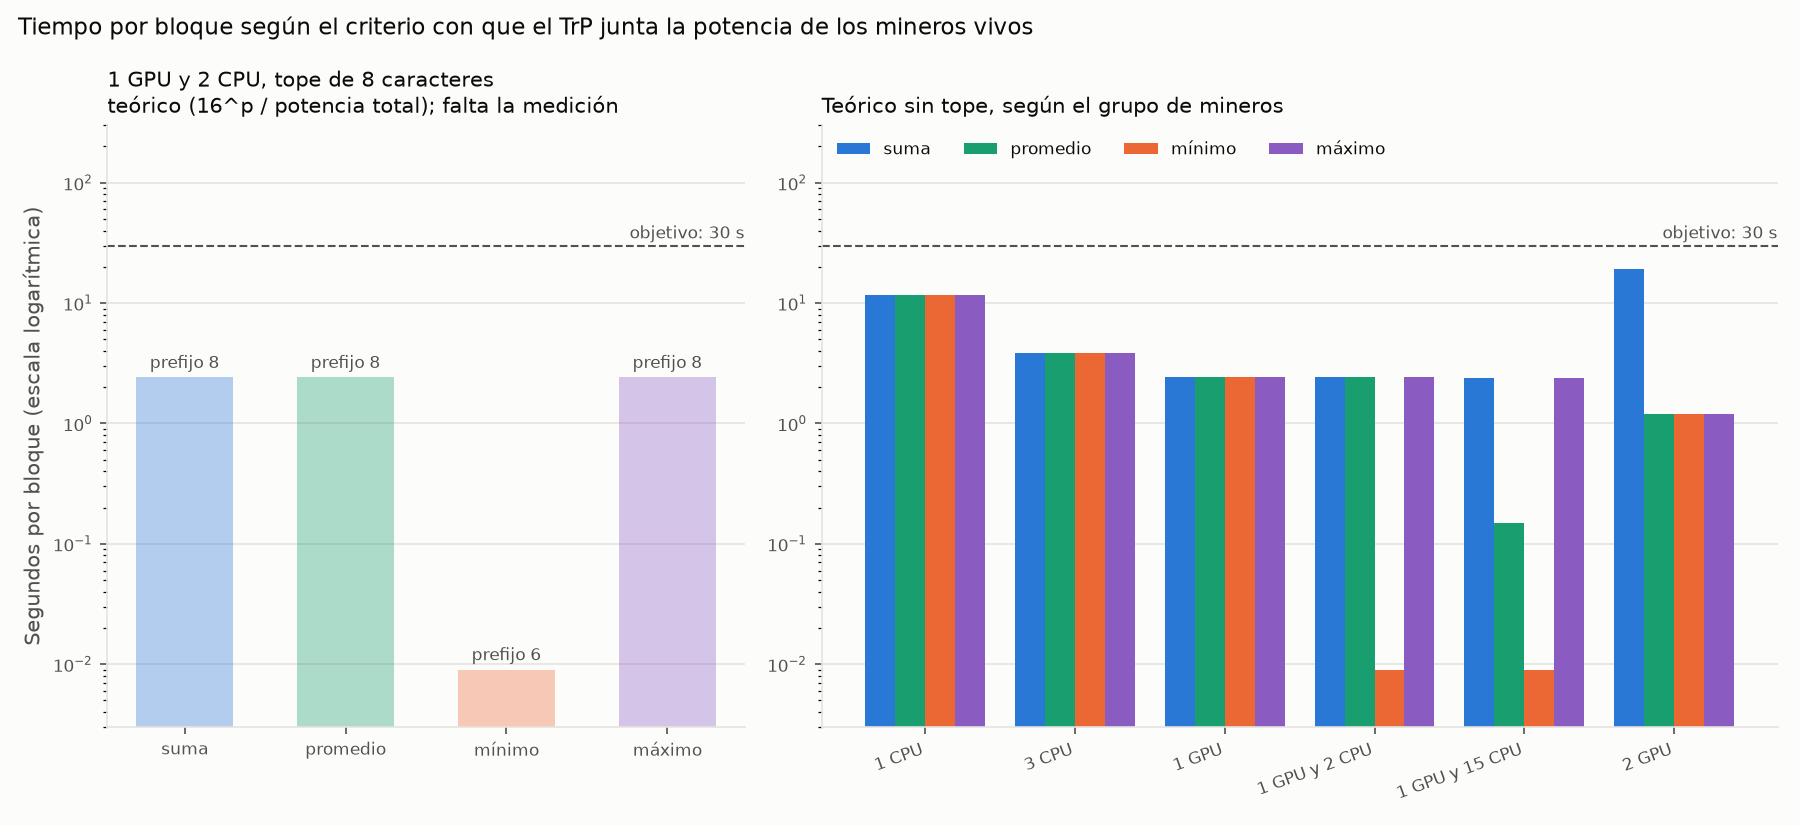
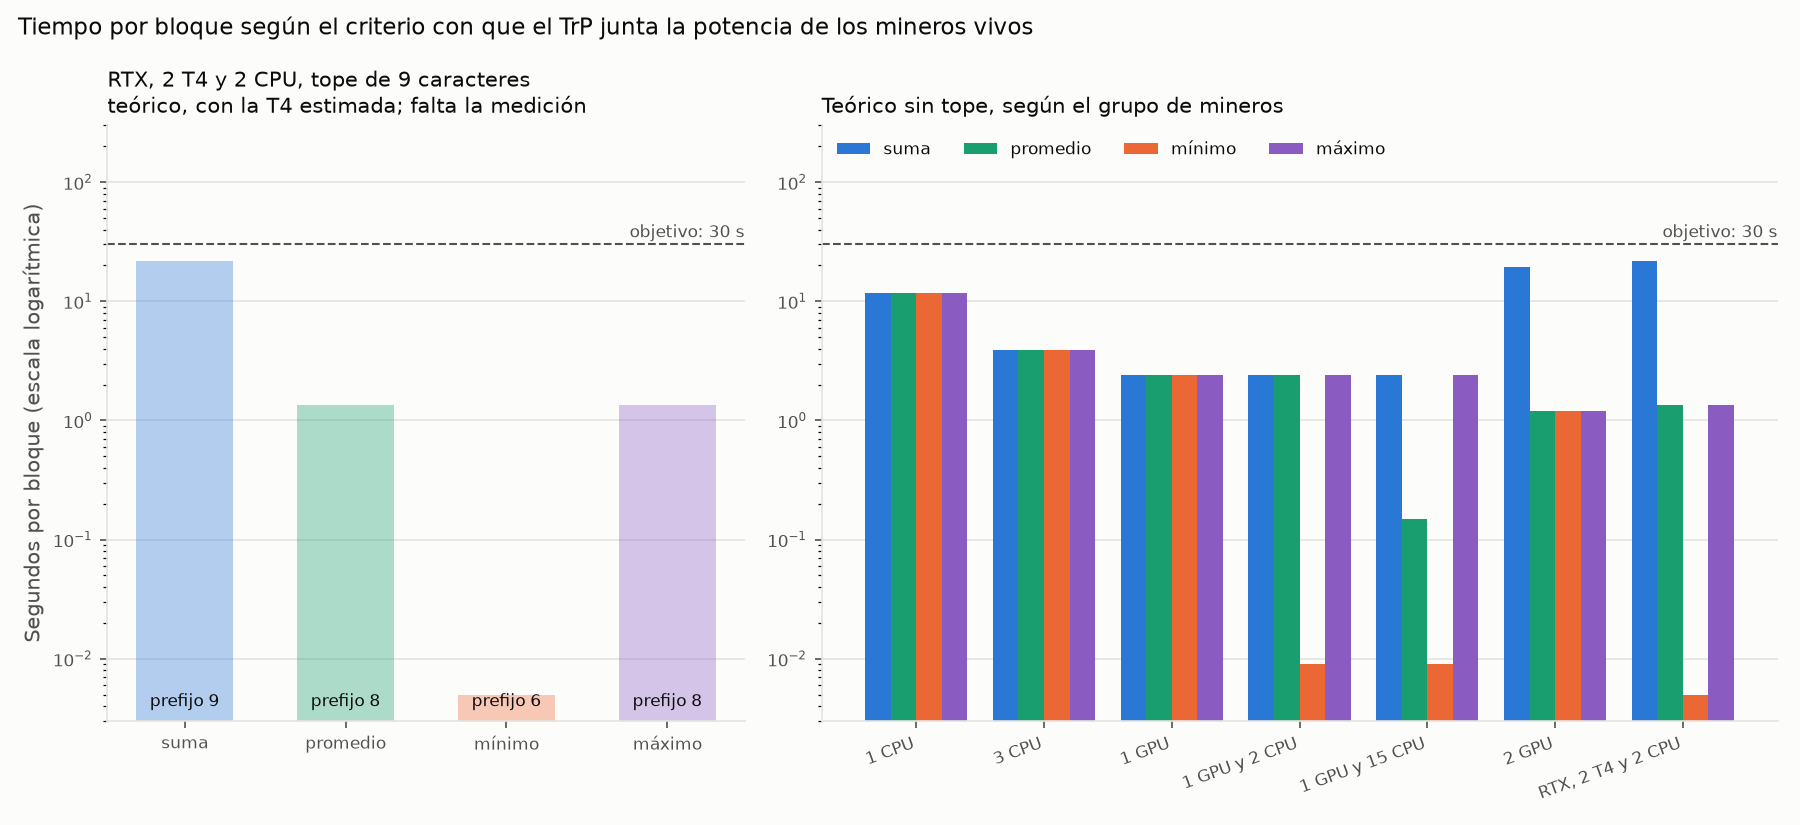
test(pilar3): la prueba de potencia con 3 GPU y 2 CPU, tope 9 (BC-59)
Con la RTX 4060, 2 T4 de Colab y 2 VMs, los criterios se separan: la suma da
9, el máximo y el promedio 8, y el mínimo 6. Por eso el tope pasa a 9 y
ESPACIO_NONCES a 2^38. La tabla teórica suma ese grupo con la T4 estimada, y
el gráfico calcula lo teórico con la potencia que registró el TrP cuando hay
medición.

diff --git a/pilar3/pruebas/grafico_potencia.py b/pilar3/pruebas/grafico_potencia.py
@@ -1,7 +1,9 @@
 """Gráfico del criterio de potencia (BC-59): segundos por bloque según cómo elige el prefijo el TrP.
 
-- Izquierda: el grupo de la prueba (1 GPU y 2 CPU, tope 8). Barras: lo teórico; puntos: lo medido
-  (potencia.csv), si ya está.
+- Izquierda: el grupo de la prueba (RTX 4060, 2 T4 y 2 CPU, tope 9). Barras: lo teórico; puntos: lo
+  medido (potencia.csv). Con la medición, lo teórico sale de ella: 16^p (el prefijo que eligió el TrP)
+  dividido la potencia total (la que registró el TrP con la suma). Sin la medición, de la tabla teórica,
+  con la T4 estimada.
 - Derecha: lo teórico sin tope para todos los grupos de potencia-teorica.csv. Muestra cuándo se separan
   los criterios: el escalón de ×16 por carácter los junta casi siempre.
 
@@ -23,7 +25,7 @@ FONDO, TEXTO, TEXTO_2, GRILLA = "#fcfcfb", "#0b0b0b", "#52514e", "#e4e3df"
 CRITERIOS = ["suma", "promedio", "minimo", "maximo"]
 NOMBRES = {"suma": "suma", "promedio": "promedio", "minimo": "mínimo", "maximo": "máximo"}
 COLORES = {"suma": "#2a78d6", "promedio": "#199e70", "minimo": "#eb6834", "maximo": "#8a5cc2"}
-GRUPO_PRUEBA, TOPE_PRUEBA, SIN_TOPE, OBJETIVO = "1 GPU y 2 CPU", 8, 32, 30
+GRUPO_PRUEBA, TOPE_PRUEBA, SIN_TOPE, OBJETIVO = "RTX, 2 T4 y 2 CPU", 9, 32, 30
 
 
 def leer(nombre):
@@ -49,16 +51,37 @@ def estilo(ax, titulo):
         ax.spines[lado].set_color(GRILLA)
 
 
+def teorico_medido(medida):
+    """{criterio: (prefijo, segundos)} con lo que registró el TrP en la corrida; None si falta la suma."""
+    totales = [float(f["potencia"]) for f in medida if f["criterio"] == "suma" and f["potencia"]]
+    if not totales:
+        return None
+    total, resultado = statistics.mean(totales), {}
+    for criterio in CRITERIOS:
+        prefijos = [int(f["prefijo"]) for f in medida if f["criterio"] == criterio and f["prefijo"]]
+        if prefijos:
+            prefijo = statistics.mode(prefijos)
+            resultado[criterio] = (prefijo, 16**prefijo / total)
+    return resultado
+
+
 def prueba(ax, teorica, medida):
-    teoricos = {f["criterio"]: f for f in teorica if f["grupo"] == GRUPO_PRUEBA and int(f["tope"]) == TOPE_PRUEBA}
+    teoricos = teorico_medido(medida) if medida else None
+    origen = "potencia medida"
+    if teoricos is None:
+        teoricos = {f["criterio"]: (int(f["prefijo"]), float(f["segundos"])) for f in teorica
+                    if f["grupo"] == GRUPO_PRUEBA and int(f["tope"]) == TOPE_PRUEBA}
+        origen = "T4 estimada"
     medidos = defaultdict(list)
     for fila in medida:
         if fila["segundos"]:
             medidos[fila["criterio"]].append(float(fila["segundos"]))
     for x, criterio in enumerate(CRITERIOS):
-        fila = teoricos[criterio]
-        ax.bar(x, float(fila["segundos"]), width=0.6, color=COLORES[criterio], alpha=0.35, zorder=2)
-        ax.text(x, float(fila["segundos"]) * 1.2, f"prefijo {fila['prefijo']}", color=TEXTO_2, fontsize=8, ha="center")
+        if criterio not in teoricos:
+            continue
+        prefijo, segundos = teoricos[criterio]
+        ax.bar(x, segundos, width=0.6, color=COLORES[criterio], alpha=0.35, zorder=2)
+        ax.text(x, 4e-3, f"prefijo {prefijo}", color=TEXTO, fontsize=8, ha="center")
         if medidos[criterio]:
             ax.scatter([x] * len(medidos[criterio]), medidos[criterio], s=22, color=COLORES[criterio],
                        linewidths=0, zorder=3)
@@ -66,9 +89,9 @@ def prueba(ax, teorica, medida):
             ax.plot([x - 0.25, x + 0.25], [media, media], color=COLORES[criterio], linewidth=2.5, zorder=3)
     ax.set_xticks(range(len(CRITERIOS)), [NOMBRES[c] for c in CRITERIOS])
     ax.set_ylabel("Segundos por bloque (escala logarítmica)", color=TEXTO_2)
-    medido = "barras: teórico (16^p / potencia total); puntos y raya: medido" if medida else \
-        "teórico (16^p / potencia total); falta la medición"
-    estilo(ax, f"{GRUPO_PRUEBA}, tope de 8 caracteres\n{medido}")
+    detalle = f"barras: teórico, con la {origen}\npuntos y raya: medido" if any(medidos.values()) else \
+        f"teórico, con la {origen}; falta la medición"
+    estilo(ax, f"{GRUPO_PRUEBA}, tope de {TOPE_PRUEBA} caracteres\n{detalle}")
 
 
 def grupos(ax, teorica):

diff --git a/pilar3/pruebas/potencia_teorica.py b/pilar3/pruebas/potencia_teorica.py
@@ -18,33 +18,37 @@ from trp.particion import CRITERIOS, largo_prefijo, potencia_viva  # noqa: E402
 
 RESULTADOS = Path(__file__).parent / "resultados"
 SEGUNDOS_OBJETIVO = 30  # SEGUNDOS_POR_BLOQUE de producción
-# PREFIJO_BASE: 8 es el tope de la prueba en GKE; con 32 (el máximo) se ve el criterio sin el tope.
-TOPES = (8, 32)
-# Bench medidos en BC-39: la RTX 4060 del k3s y una VM e2-highcpu-2.
-GPU, CPU = 1.78e9, 1.44e6
-GRUPOS = [("1 CPU", 0, 1), ("3 CPU", 0, 3), ("1 GPU", 1, 0), ("1 GPU y 2 CPU", 1, 2),
-          ("1 GPU y 15 CPU", 1, 15), ("2 GPU", 2, 0)]
-COLUMNAS = ["tope", "grupo", "gpus", "cpus", "criterio", "potencia", "prefijo", "potencia_total", "segundos"]
+# PREFIJO_BASE: 9 es el tope de la prueba en GKE; con 32 (el máximo) se ve el criterio sin el tope.
+TOPES = (9, 32)
+# Bench medidos en BC-39 (la RTX 4060 del k3s y una VM e2-highcpu-2) y la T4 de Colab estimada con el
+# kernel del Hit 7 (cierre del Pilar 1, 700 MH/s; el minero con midstate hace algo más).
+RTX, T4, CPU = 1.78e9, 7e8, 1.44e6
+GRUPOS = [  # (nombre, [bench de cada minero])
+    ("1 CPU", [CPU]), ("3 CPU", [CPU] * 3), ("1 GPU", [RTX]), ("1 GPU y 2 CPU", [RTX] + [CPU] * 2),
+    ("1 GPU y 15 CPU", [RTX] + [CPU] * 15), ("2 GPU", [RTX] * 2),
+    ("RTX, 2 T4 y 2 CPU", [RTX] + [T4] * 2 + [CPU] * 2),  # el grupo de la prueba en GKE
+]
+COLUMNAS = ["tope", "grupo", "mineros", "criterio", "potencia", "prefijo", "potencia_total", "segundos"]
 
 
-def nodos(gpus, cpus):
+def nodos(benchs):
     """Los nodo:<id> como los ve el TrP: todos vivos (avisaron en el mismo instante que se mira)."""
-    return [{"bench": str(GPU), "ultimo_aviso": "0"}] * gpus + [{"bench": str(CPU), "ultimo_aviso": "0"}] * cpus
+    return [{"bench": str(bench), "ultimo_aviso": "0"} for bench in benchs]
 
 
 def filas():
     for tope in TOPES:
-        for nombre, gpus, cpus in GRUPOS:
-            yield from filas_del_grupo(tope, nombre, gpus, cpus)
+        for nombre, benchs in GRUPOS:
+            yield from filas_del_grupo(tope, nombre, benchs)
 
 
-def filas_del_grupo(tope, nombre, gpus, cpus):
-    grupo = nodos(gpus, cpus)
+def filas_del_grupo(tope, nombre, benchs):
+    grupo = nodos(benchs)
     total = potencia_viva(grupo, 0, 15, "suma")
     for criterio in CRITERIOS:
         potencia = potencia_viva(grupo, 0, 15, criterio)
         prefijo = largo_prefijo(potencia, SEGUNDOS_OBJETIVO, tope)
-        yield {"tope": tope, "grupo": nombre, "gpus": gpus, "cpus": cpus, "criterio": criterio,
+        yield {"tope": tope, "grupo": nombre, "mineros": len(benchs), "criterio": criterio,
                "potencia": round(potencia), "prefijo": prefijo, "potencia_total": round(total),
                "segundos": round(16**prefijo / total, 3)}
 
@@ -57,7 +61,7 @@ def main():
         escritor.writeheader()
         for fila in filas():
             escritor.writerow(fila)
-            print(f"tope {fila['tope']:2}  {fila['grupo']:16} {fila['criterio']:9} prefijo {fila['prefijo']}  {fila['segundos']:>10} s")
+            print(f"tope {fila['tope']:2}  {fila['grupo']:18} {fila['criterio']:9} prefijo {fila['prefijo']}  {fila['segundos']:>10} s")
     print(f"→ {salida}")
 
 

diff --git a/pilar3/pruebas/potencia.py b/pilar3/pruebas/potencia.py
@@ -10,9 +10,10 @@ Para comparar con la tabla teórica (potencia_teorica.py) y armar el gráfico (g
 
     python pilar3/pruebas/potencia.py --api http://<traefik> --salida pilar3/pruebas/resultados/potencia.csv
 
-Grupo de la prueba: 1 GPU (k3s) y 2 VMs CPU fijas (preparar.sh fijar-vms 2). Con prefijo 8 hacen falta
-16^8 = 2^32 intentos: con ESPACIO_NONCES=2^34, ~1,8 % de las tareas quedan sin solución (e^-4) en vez
-de ~37 %. Usa el kubectl del cluster (KUBECONFIG). Al terminar (o con Ctrl+C) deja PREFIJO_BASE,
+Grupo de la prueba: 3 GPU de potencias distintas (la RTX 4060 del k3s y 2 T4 de Colab) y 2 VMs CPU fijas
+(preparar.sh fijar-vms 2). Así los criterios se separan: la suma da 9, el máximo y el promedio 8, y el
+mínimo (una CPU) 6. Con prefijo 9 hacen falta 16^9 = 2^36 intentos: con ESPACIO_NONCES=2^38, ~1,8 % de
+las tareas quedan sin solución (e^-4) en vez de ~37 %. Usa el kubectl del cluster (KUBECONFIG). Al terminar (o con Ctrl+C) deja PREFIJO_BASE,
 AJUSTAR_PREFIJO, FRAGMENTO_PORCENTAJE, ESPACIO_NONCES y CRITERIO_POTENCIA del TrP como estaban.
 Correrlo con el Python de pilar2 (pilar2/.venv/bin/python): firma con la cuenta de prueba alice.
 """
@@ -60,13 +61,13 @@ def main():
     p.add_argument("--api", required=True, help="URL de Traefik (frontend y API)")
     p.add_argument("--salida", required=True, help="CSV de resultados (se agregan filas)")
     p.add_argument("--criterios", default=",".join(CRITERIOS), help="CRITERIO_POTENCIA a probar, separados por coma")
-    p.add_argument("--tope", type=int, default=8, help="PREFIJO_BASE: el máximo que puede elegir el TrP")
-    p.add_argument("--espacio", type=int, default=2**34, help="ESPACIO_NONCES del TrP")
+    p.add_argument("--tope", type=int, default=9, help="PREFIJO_BASE: el máximo que puede elegir el TrP")
+    p.add_argument("--espacio", type=int, default=2**38, help="ESPACIO_NONCES del TrP")
     p.add_argument("--porcentaje", type=int, default=10, help="FRAGMENTO_PORCENTAJE del TrP")
     p.add_argument("--bloques", type=int, default=5, help="bloques por criterio")
     p.add_argument("--maximo", type=int, default=300, help="segundos máximos por bloque; si se pasa, sigue con el próximo criterio")
     p.add_argument("--ventana", type=int, default=30, help="VENTANA_SEGUNDOS del NCT")
-    p.add_argument("--gpus", type=int, default=1, help="mineros GPU que tienen que estar vivos")
+    p.add_argument("--gpus", type=int, default=3, help="mineros GPU que tienen que estar vivos")
     p.add_argument("--cpus", type=int, default=2, help="mineros CPU que tienen que estar vivos")
     args = p.parse_args()
     criterios = args.criterios.split(",")

diff --git a/pilar3/pruebas/README.md b/pilar3/pruebas/README.md
@@ -87,7 +87,7 @@ El TrP elige el largo p del prefijo con la potencia de los mineros vivos: el may
 
 Lo importante: **el criterio sólo elige p, pero minan todos**. El bloque tarda en promedio 16^p intentos dividido la potencia **total**, así que la suma es el único criterio que apunta al objetivo. Los otros eligen un p más corto (nunca más largo: el promedio, el mínimo y el máximo son ≤ la suma) y los bloques salen antes de lo buscado.
 
-**Tabla teórica**, sin cluster: [`potencia_teorica.py`](potencia_teorica.py) usa la misma función que el TrP, con los bench de BC-39 (RTX 4060: 1,78 GH/s; VM e2-highcpu-2: 1,44 MH/s), y deja `resultados/potencia-teorica.csv`. Sin tope:
+**Tabla teórica**, sin cluster: [`potencia_teorica.py`](potencia_teorica.py) usa la misma función que el TrP, con los bench de BC-39 (RTX 4060: 1,78 GH/s; VM e2-highcpu-2: 1,44 MH/s) y la T4 de Colab estimada en 700 MH/s (el kernel del Hit 7 en el cierre del Pilar 1), y deja `resultados/potencia-teorica.csv`. Sin tope:
 
 | Grupo | Suma | Promedio | Mínimo | Máximo |
 |---|---|---|---|---|
@@ -97,16 +97,21 @@ Lo importante: **el criterio sólo elige p, pero minan todos**. El bloque tarda 
 | 1 GPU y 2 CPU | 8 (2,4 s) | 8 (2,4 s) | **6 (0,009 s)** | 8 (2,4 s) |
 | 1 GPU y 15 CPU | 8 (2,4 s) | **7 (0,15 s)** | **6 (0,009 s)** | 8 (2,4 s) |
 | 2 GPU | **9 (19 s)** | 8 (1,2 s) | 8 (1,2 s) | 8 (1,2 s) |
+| RTX, 2 T4 y 2 CPU (el de la prueba) | **9 (22 s)** | 8 (1,3 s) | **6 (0,005 s)** | 8 (1,3 s) |
 
 - El **mínimo** se separa en cuanto hay una CPU junto a una GPU: el prefijo lo elige el más lento y la GPU lo resuelve enseguida.
 - El **promedio** se separa cuando hay muchos mineros: es la suma dividida la cantidad, así que depende de cuántos hay y no de cuánto pueden.
 - El **máximo** se separa cuando hay varios mineros fuertes: con 2 GPU elige como si hubiera una.
+- En el grupo de la prueba se separan tres: la suma (9), el máximo y el promedio (8) y el mínimo (6). Pasa con cualquier T4 de más de ~0,26 GH/s, así que no depende de la estimación. Sin las CPU, el mínimo sería una T4 y daría 8 como el resto.
 - Como p sube de a un carácter (×16), los criterios muchas veces coinciden, y aun con la suma el bloque tarda entre T/16 y T (con 1 GPU, 2,4 s y no 30). Los tiempos teóricos no incluyen el resto del sistema: en BC-39, hasta prefijo 5 un bloque tarda 1 a 2 s igual.
 
-**Medición en GKE**: [`potencia.py`](potencia.py) recorre los criterios con el ajuste prendido (`AJUSTAR_PREFIJO=1`), tope 8, `ESPACIO_NONCES=2^34` (con prefijo 8 quedan sin solución ~1,8 % de las tareas en vez de ~37 %) y 10 %, y saca de los logs del TrP el criterio, el prefijo y la potencia de cada tarea. Exige 1 GPU y 2 CPU vivos. Al terminar deja el TrP como estaba.
+**Medición en GKE**: [`potencia.py`](potencia.py) recorre los criterios con el ajuste prendido (`AJUSTAR_PREFIJO=1`), tope 9, `ESPACIO_NONCES=2^38` (con prefijo 9 hacen falta 2^36 intentos: quedan sin solución ~1,8 % de las tareas en vez de ~37 %) y 10 %, y saca de los logs del TrP el criterio, el prefijo y la potencia de cada tarea. Exige 3 GPU y 2 CPU vivos (`--gpus` y `--cpus` lo cambian). Al terminar deja el TrP como estaba. Con la medición, el gráfico calcula lo teórico con la potencia que registró el TrP (la suma) y no con la T4 estimada.
+
+El grupo: la RTX 4060 del k3s, 2 GPU de Colab ([`colab.ipynb`](../../pilar2/minero_gpu/colab.ipynb), cada una con su cuenta aprobada) y 2 VMs CPU fijas. Conviene hacerla en la misma sesión que BC-40, que con varias GPU también se ve mejor: primero `fragmentos.py --tipo gpu` sin VMs, después las VMs y esta.
 
 ```bash
-PROYECTO=<proyecto de GCP> pilar3/pruebas/preparar.sh fijar-vms 2       # y la GPU del k3s prendida
+# Con la RTX y los 2 Colab prendidos, y el TrP de BC-59 desplegado en GKE
+PROYECTO=<proyecto de GCP> pilar3/pruebas/preparar.sh fijar-vms 2
 pilar2/.venv/bin/python pilar3/pruebas/potencia_teorica.py
 pilar2/.venv/bin/python pilar3/pruebas/potencia.py --api http://<traefik> --salida pilar3/pruebas/resultados/potencia.csv
 python pilar3/pruebas/grafico_potencia.py
